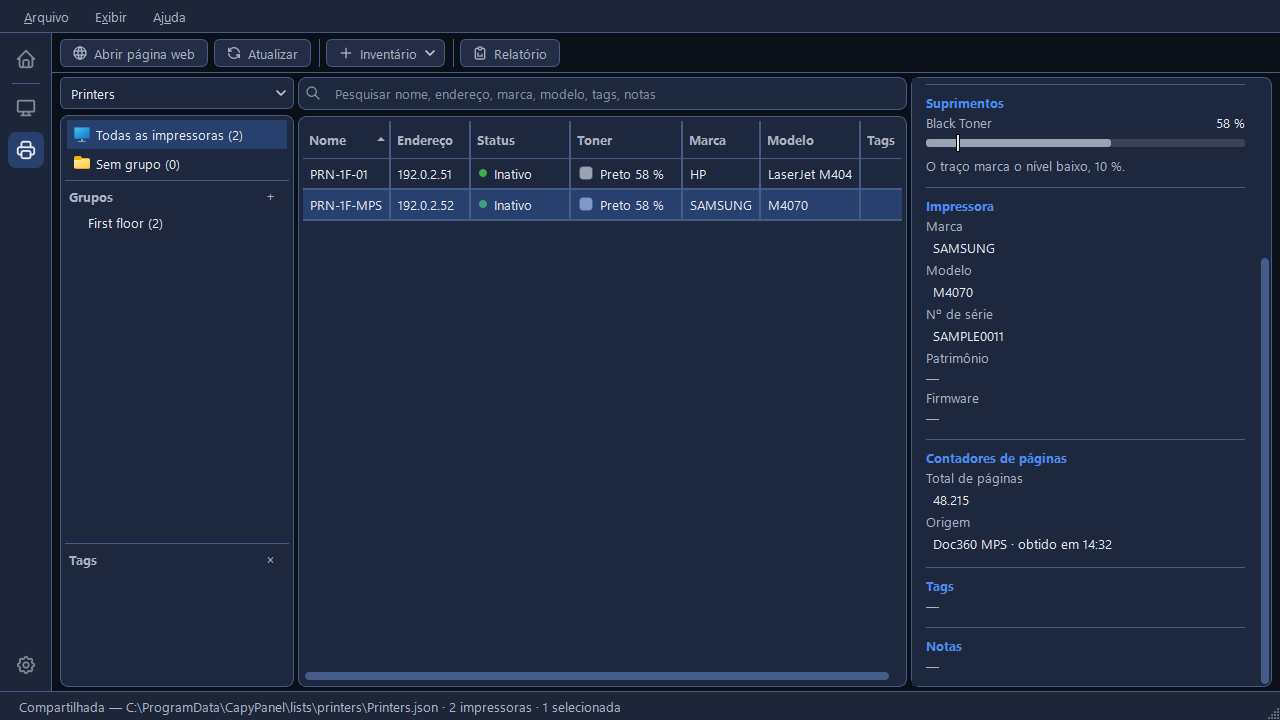
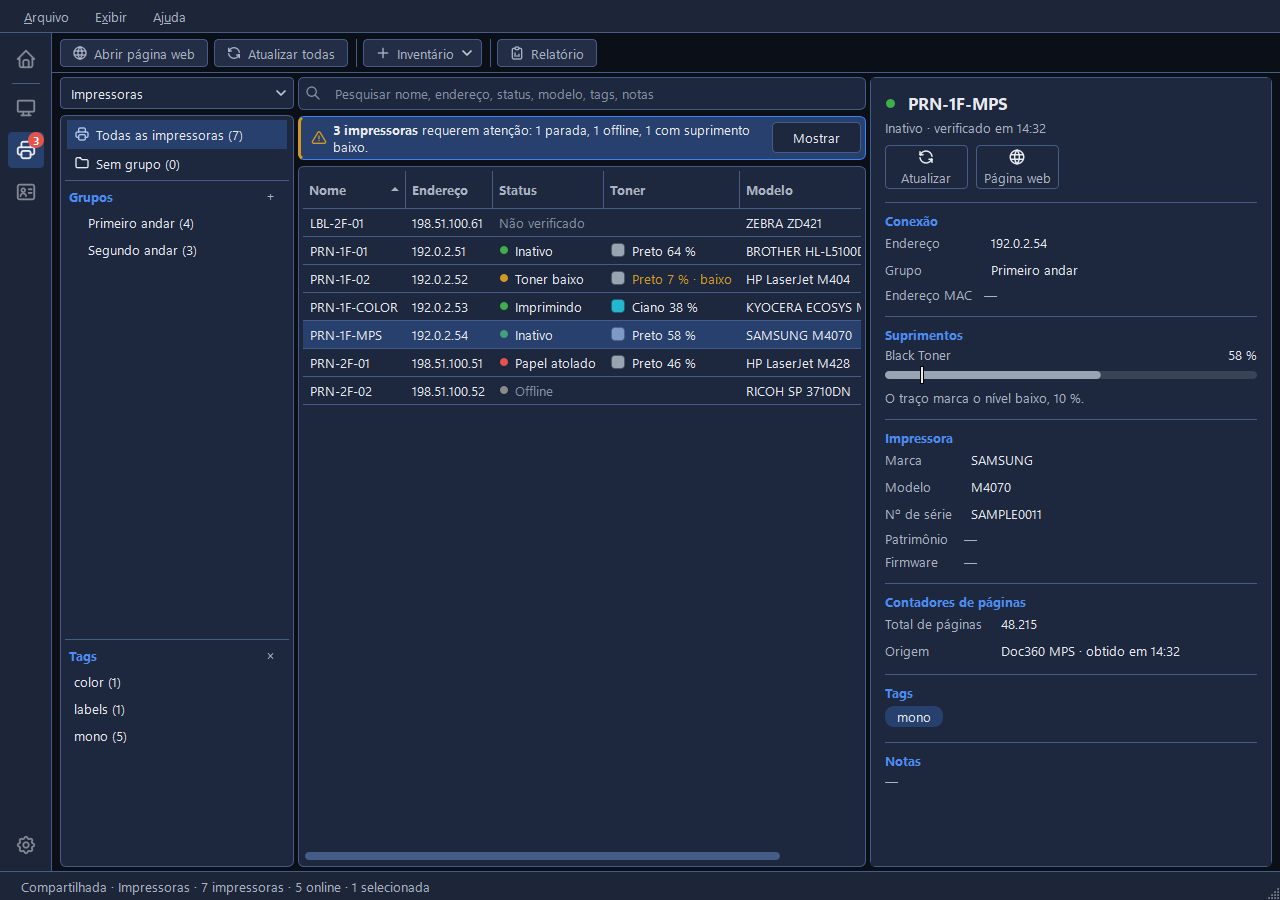
docs: the Printers screenshots in the new look
The Printers window, a printer's supplies and a Doc360 MPS printer's
page counters, retaken in both languages, with the window caption
matching the new picture.

Changed region(s): [[0.0, 0.0, 1.0, 1.0], [0.0312, 0.7028, 0.0938, 0.825]]

diff --git a/docs/printers/checking.pt-BR.md b/docs/printers/checking.pt-BR.md
@@ -8,7 +8,7 @@ ele nunca altera uma configuração numa impressora.
 Os resultados ficam na memória, nunca no arquivo da lista, e somem quando o CapyPanel fecha. Isso
 também significa que uma lista somente leitura pode ser atualizada como qualquer outra.
 
-![A janela Impressoras depois de uma atualização: um status e um nível de toner em cada impressora, e os suprimentos da selecionada](../images/printers-dark-pt-BR.png)
+![A janela Impressoras depois de uma atualização: o status e o toner de cada impressora lida, uma Não verificada, a faixa de atenção e os suprimentos da selecionada](../images/printers-dark-pt-BR.png)
 
 ## Atualizar
 

diff --git a/docs/printers/checking.md b/docs/printers/checking.md
@@ -8,7 +8,7 @@ changes a setting on a printer.
 The results are kept in memory, never in the list file, and they're gone when CapyPanel closes.
 That also means a read-only list can be refreshed like any other.
 
-![The Printers window after a refresh: a status and a toner level on every printer, and the supplies of the selected one](../images/printers-dark.png)
+![The Printers window after a refresh: the status and toner of each printer read, one Not checked, the attention strip, and the supplies of the selected one](../images/printers-dark.png)
 
 ## Refresh
 
